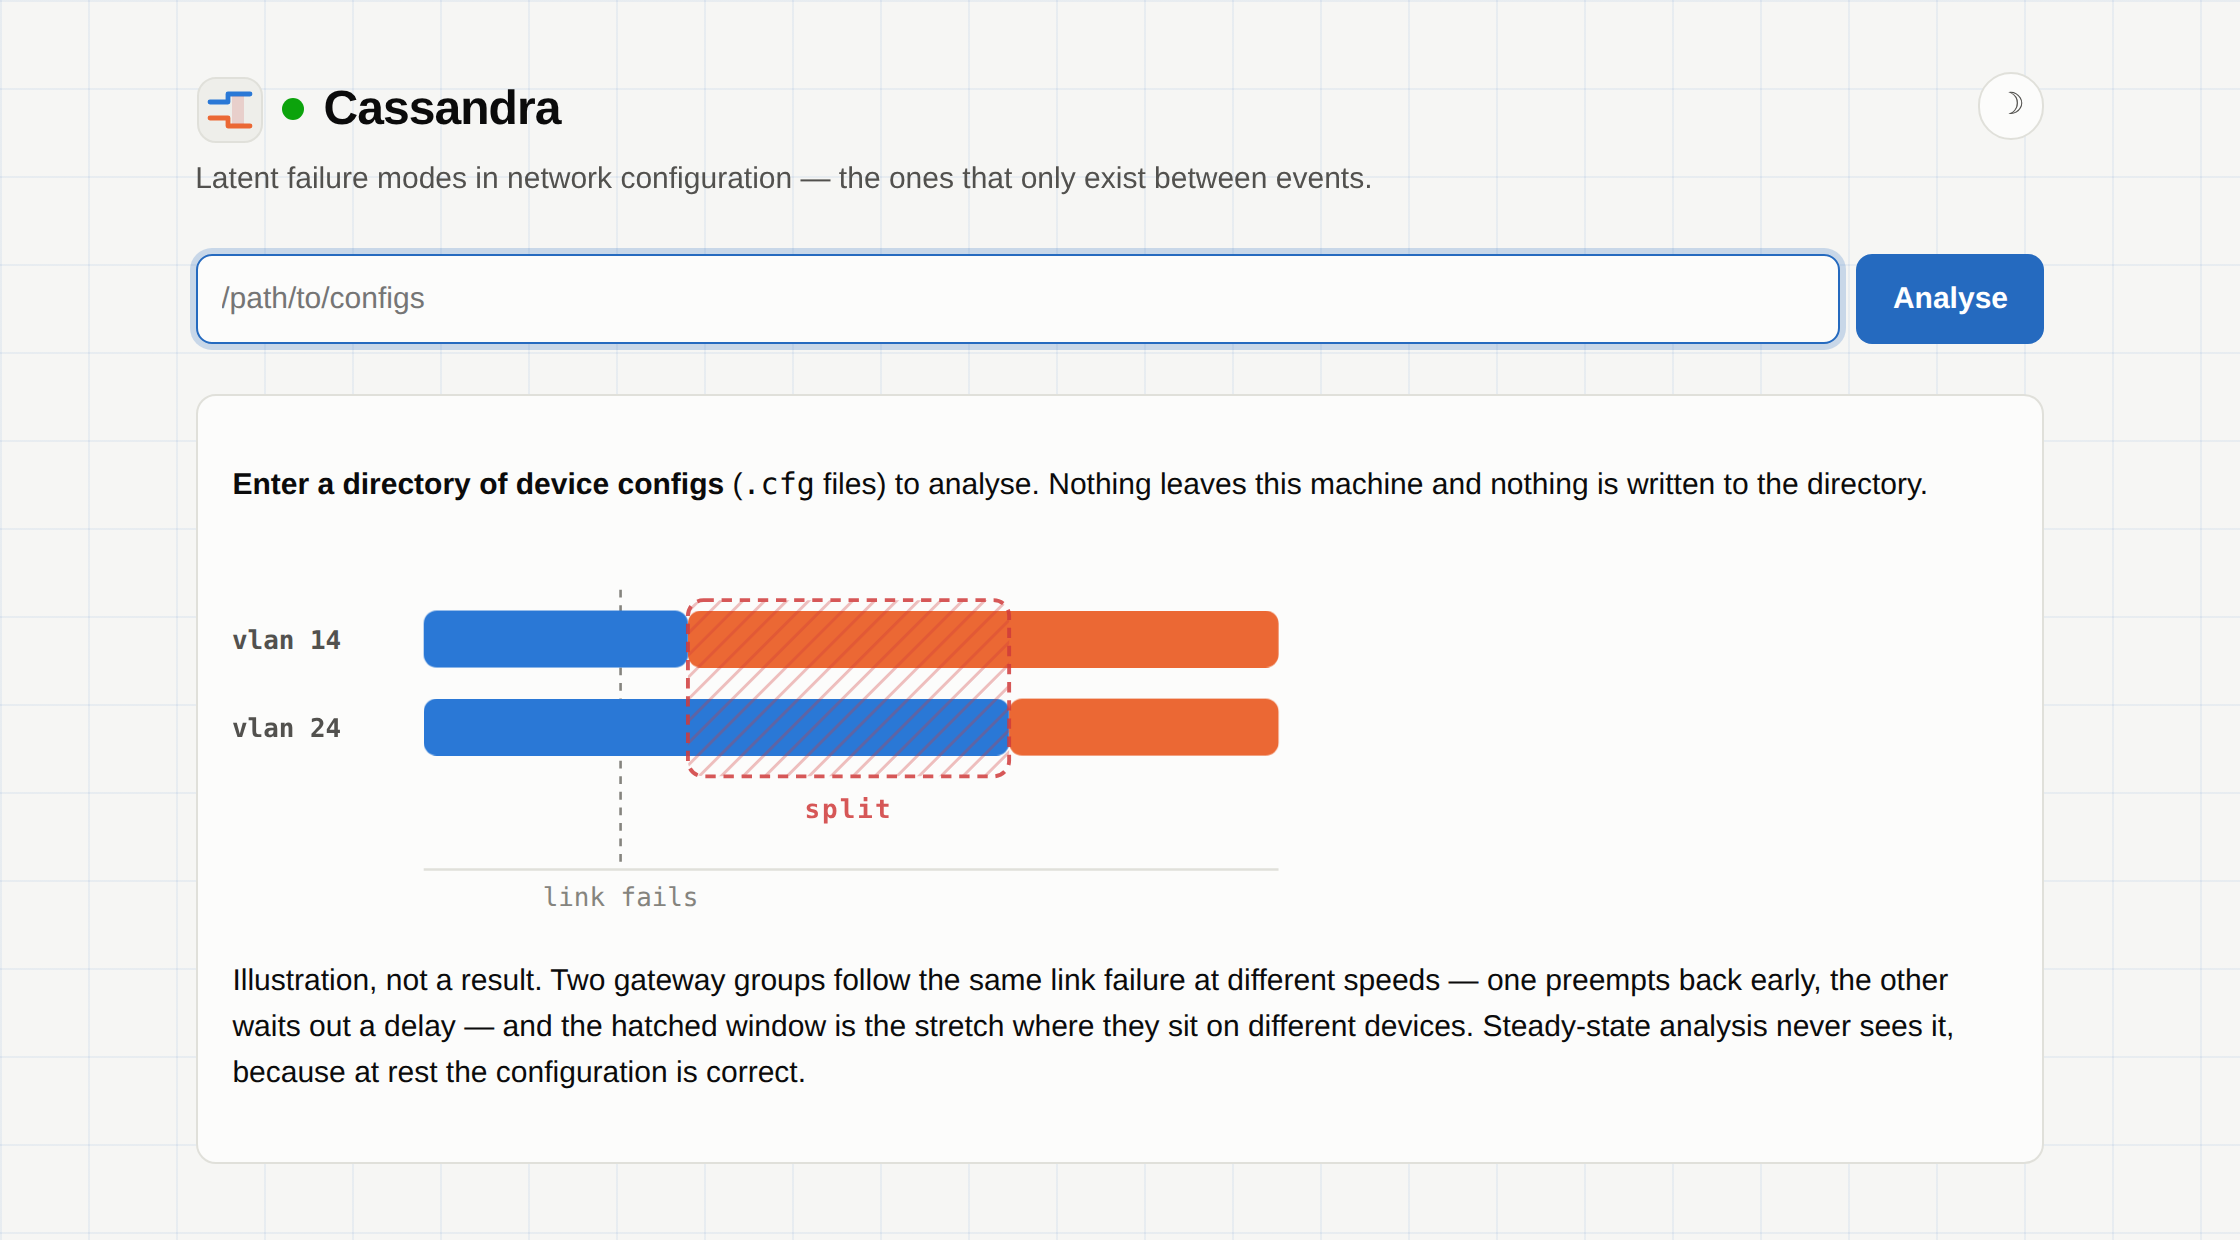
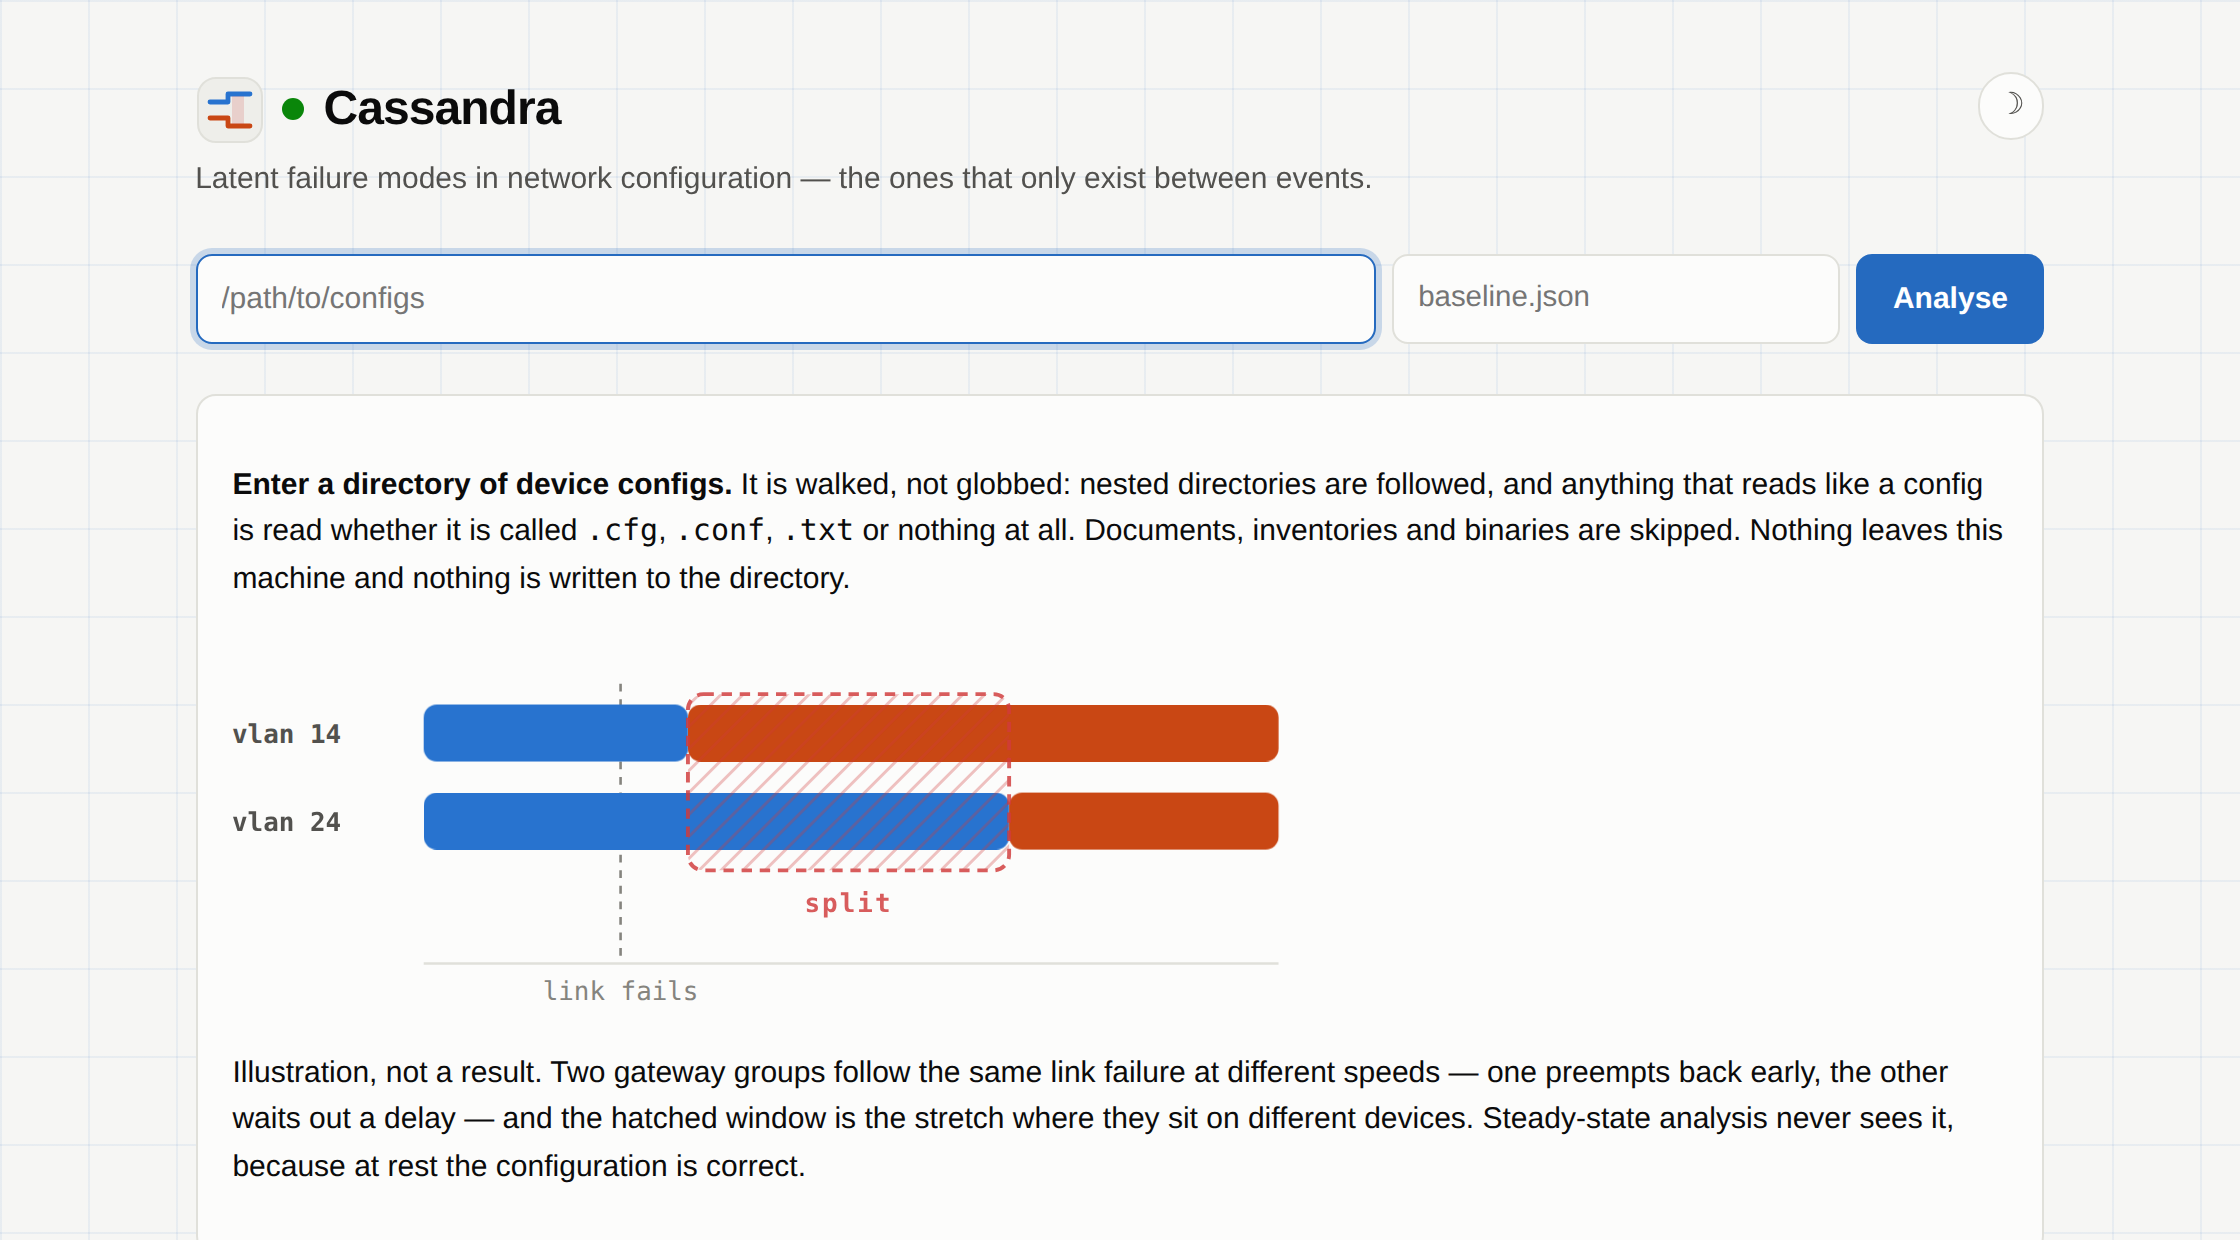
Describe what the tool actually accepts, and refresh the figures
The landing page still promised .cfg files. Discovery walks a tree and reads
anything that looks like a config whatever it is called; saying otherwise sends
people off to rename their backups before they try it.

diff --git a/cassandra/app.py b/cassandra/app.py
@@ -1105,9 +1105,13 @@ def page(
     elif not config_dir:
         sections.append(
             '<div class="empty landing">'
-            "<p><strong>Enter a directory of device configs</strong> "
-            "(<code>.cfg</code> files) to analyse. Nothing leaves this machine "
-            "and nothing is written to the directory.</p>"
+            "<p><strong>Enter a directory of device configs.</strong> "
+            "It is walked, not globbed: nested directories are followed, and "
+            "anything that reads like a config is read whether it is called "
+            "<code>.cfg</code>, <code>.conf</code>, <code>.txt</code> or "
+            "nothing at all. Documents, inventories and binaries are skipped. "
+            "Nothing leaves this machine and nothing is written to the "
+            "directory.</p>"
             f"{art.hero_svg()}"
             '<p class="cap">Illustration, not a result. Two gateway groups '
             "follow the same link failure at different speeds — one preempts "
